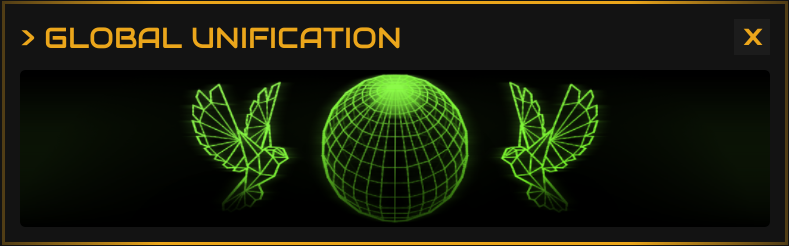
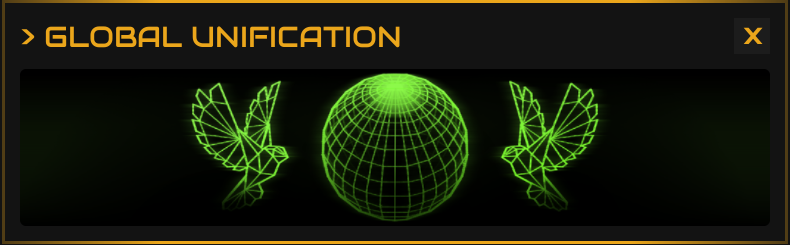
[1.4.3]
Added ocean. Updated global unification.

diff --git a/assets/js/version.js b/assets/js/version.js
@@ -29,4 +29,5 @@ document.addEventListener("DOMContentLoaded", () => {
 // window.version = "1.3.12"; // Moved the card preview functionality to core.js so I can just load it and call openCardPreview(). This way I can have card previews on any page I want and not just gallery. One more reason for centralizing this is I want to eventually use the card preview to add that card to your wishlist, which LetMeKnow would be able to grab later.
 // window.version = "1.4.0"; // New og-image.php. Allows for a nice embed whenever someone posts www.redfor.org/shop.
 // window.version = "1.4.1"; //Updated bubble gum
-window.version = "1.4.2"; // changed shop.html to shop.php so i can append a ?v= to bust discords idiotic cache lol
+// window.version = "1.4.2"; // changed shop.html to shop.php so i can append a ?v= to bust discords idiotic cache lol
+window.version = "1.4.3"; // Added ocean. Updated global unification.